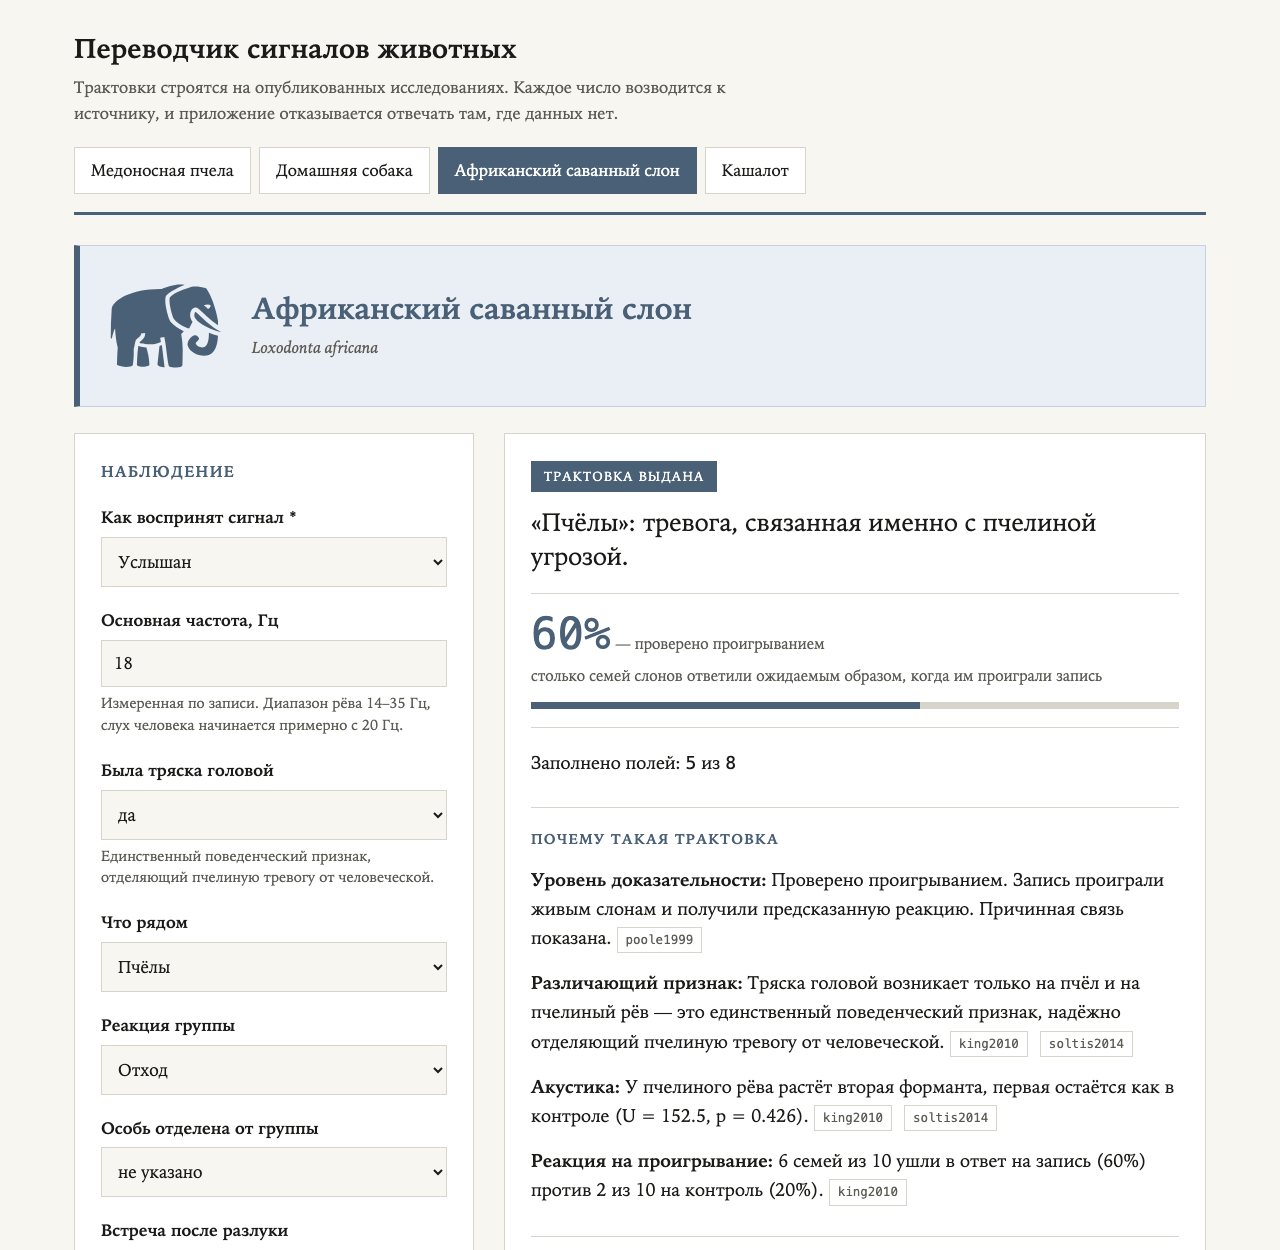
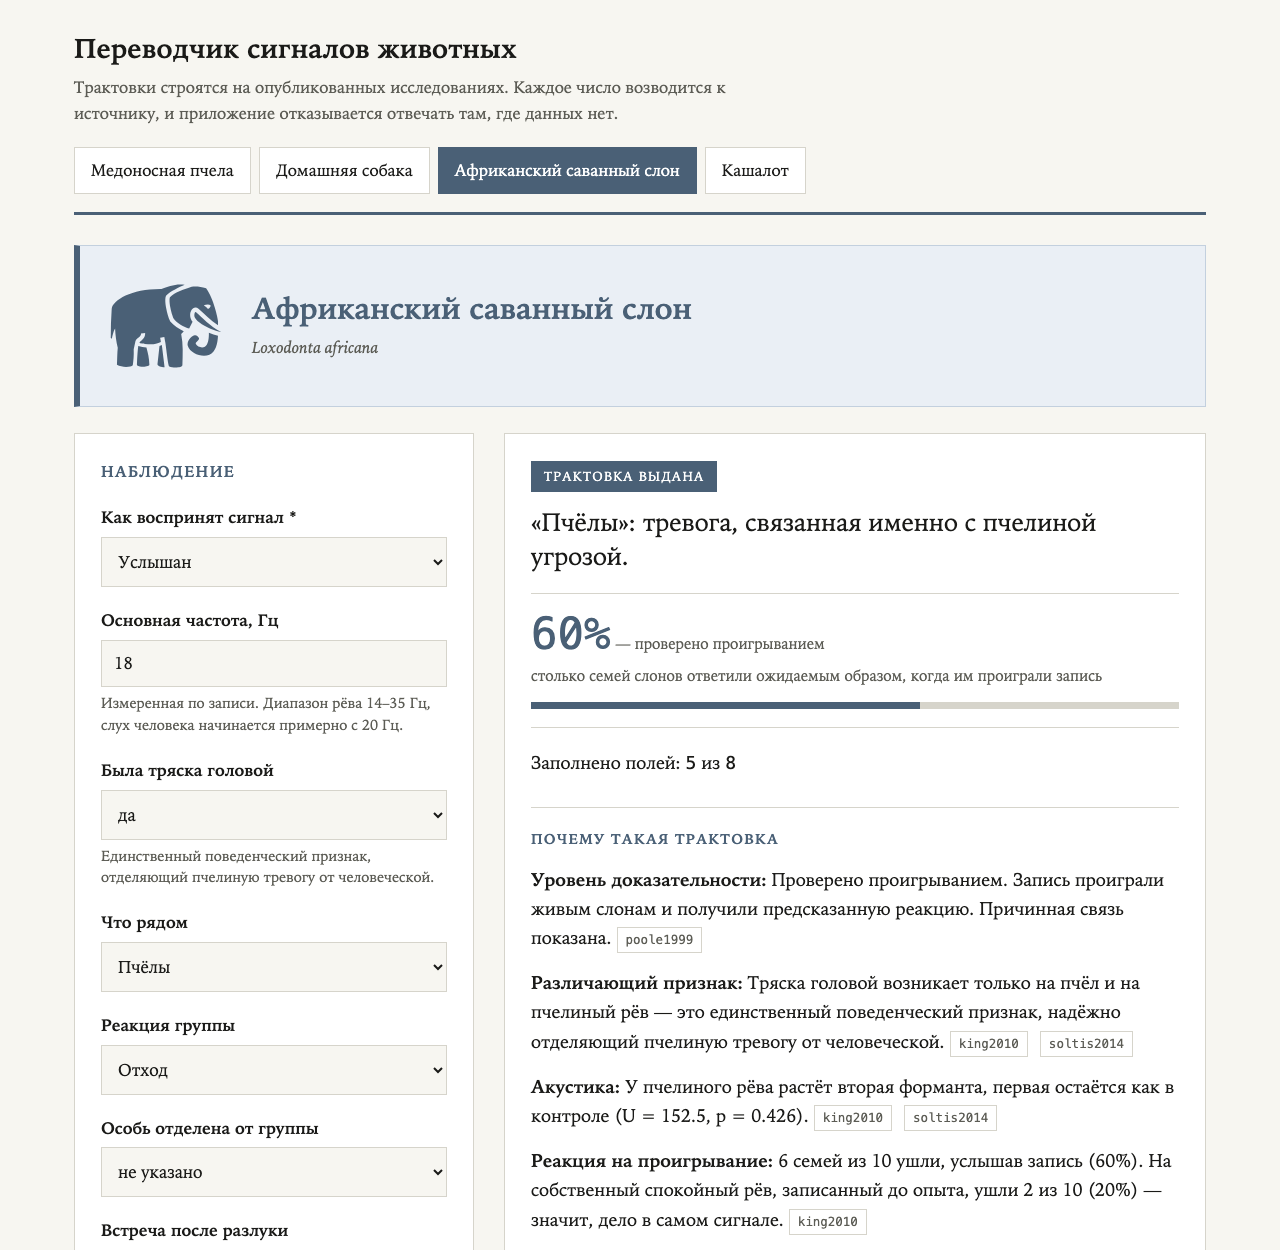
simplify interface wording and explain species terms

Changed region(s): [[0.4062, 0.9048, 0.9062, 0.9984]]

diff --git a/src/animal_translator/app.py b/src/animal_translator/app.py
@@ -10,7 +10,7 @@ from __future__ import annotations
 
 from typing import Annotated, Any
 
-from fastapi import FastAPI, Query, Request
+from fastapi import FastAPI, Path, Query, Request
 from fastapi.responses import HTMLResponse, JSONResponse
 
 from . import api, web
@@ -29,6 +29,9 @@ DESCRIPTION = """
 
 Каждое число возводится к источнику, а там, где данных нет, приложение
 отказывается отвечать и объясняет, какого рода это незнание.
+
+Вид обозначается коротким именем в адресе — `honeybee`, `dog`, `elephant`,
+`spermwhale`. Полный список отдаёт `GET /api/species`.
 
 Схема наблюдения своя у каждого вида: она приходит в `GET /api/species/{slug}`
 полем `input_schema`, и поля запроса берутся оттуда.
@@ -69,14 +72,16 @@ def species_list() -> list[SpeciesSummary]:
 
 
 @app.get("/api/species/{slug}", tags=["Виды"], summary="Схема ввода, источники и мифы")
-def species_detail(slug: str) -> SpeciesDetail:
+def species_detail(
+    slug: Annotated[str, Path(description="Короткое имя вида в адресе, например dog")],
+) -> SpeciesDetail:
     return SpeciesDetail(**api.species_detail(slug))
 
 
 @app.get("/api/translate", tags=["Разбор"], summary="Разбор наблюдения (значения строками)")
 def translate_get(
     request: Request,
-    species: Annotated[str, Query(description="Слаг вида, например dog")],
+    species: Annotated[str, Query(description="Короткое имя вида в адресе: honeybee, dog, elephant или spermwhale. Полный список — в GET /api/species.")],
 ) -> TranslateResponse:
     values = {key: request.query_params.getlist(key)
               for key in request.query_params if key != "species"}

diff --git a/src/animal_translator/schemas.py b/src/animal_translator/schemas.py
@@ -93,7 +93,7 @@ class InputFieldOut(BaseModel):
 
 
 class SpeciesSummary(BaseModel):
-    slug: str
+    slug: str = Field(description="Короткое имя вида в адресе, например dog")
     name_ru: str
     name_en: str | None = None
     scientific_name: str
@@ -103,7 +103,7 @@ class SpeciesSummary(BaseModel):
 
 
 class SpeciesDetail(BaseModel):
-    slug: str
+    slug: str = Field(description="Короткое имя вида в адресе, например dog")
     name_ru: str
     scientific_name: str
     engine: str
@@ -117,7 +117,7 @@ class SpeciesDetail(BaseModel):
 class TranslateRequest(BaseModel):
     """Наблюдение с типизированными значениями."""
 
-    species: str = Field(description="Слаг вида, например dog")
+    species: str = Field(description="Короткое имя вида в адресе: honeybee, dog, elephant или spermwhale. Полный список — в GET /api/species.")
     observation: dict[str, Any] = Field(
         default_factory=dict,
         description="Поля из input_schema вида. Незаполненные просто не передаются.")
@@ -137,7 +137,7 @@ class TranslateRequest(BaseModel):
 
 
 class TranslateResponse(BaseModel):
-    species: str
+    species: str = Field(description="Короткое имя вида в адресе, например dog")
     observation: dict[str, Any] = Field(description="Как приложение поняло ввод")
     fields_filled: int
     fields_total: int

diff --git a/src/animal_translator/species/elephant.py b/src/animal_translator/species/elephant.py
@@ -130,9 +130,10 @@ def translate(observation: dict[str, Any]) -> Result:
             Step(
                 label_ru="Реакция на проигрывание",
                 value_ru=(
-                    f"{playback['retreated']} семей из {playback['of_trials']} ушли в ответ на запись "
-                    f"({rate:.0%}) против {playback['control_retreated']} из "
-                    f"{playback['control_of_trials']} на контроль ({control:.0%})."
+                    f"{playback['retreated']} семей из {playback['of_trials']} ушли, услышав запись "
+                    f"({rate:.0%}). На собственный спокойный рёв, записанный до опыта, ушли "
+                    f"{playback['control_retreated']} из {playback['control_of_trials']} "
+                    f"({control:.0%}) — значит, дело в самом сигнале."
                 ),
                 source_ids=[playback["source_id"]],
             )

diff --git a/scripts/build_db.py b/scripts/build_db.py
@@ -1,8 +1,8 @@
 #!/usr/bin/env python3
 """Сборка запрашиваемой базы SQLite из data/knowledge.
 
-JSON остаётся источником правды: он читается глазами и виден в диффах. База —
-производная форма, удобная для запросов поперёк видов.
+JSON остаётся первоисточником: он читается глазами и виден в диффах. База —
+производная форма, удобная для запросов сразу по всем видам.
 
     python3 scripts/build_db.py            собрать data/knowledge.db
     python3 scripts/build_db.py --demo     собрать и выполнить примеры запросов

diff --git a/README.md b/README.md
@@ -92,6 +92,9 @@ python3 -m unittest discover -s tests
 | `GET /api/translate?species=…&<поля>` | Разбор, значения строками |
 | `POST /api/translate` | То же, значения своих типов |
 
+`{slug}` — короткое имя вида в адресе: `honeybee`, `dog`, `elephant`,
+`spermwhale`. Оно же служит именем файла в `data/knowledge` и ключом в базе.
+
 Схема наблюдения приходит в `GET /api/species/{slug}` полем `input_schema`, и поля
 запроса берутся оттуда: у каждого вида они свои.
 
@@ -144,8 +147,9 @@ curl -X POST http://127.0.0.1:8000/api/translate \
 
 ## Запросы к базе
 
-Источник правды — JSON в `data/knowledge`. Для запросов поперёк видов из него
-собирается SQLite: файл базы не хранится в репозитории, его создаёт скрипт.
+Первоисточник — JSON-файлы в `data/knowledge`. Из них собирается база SQLite,
+чтобы можно было запрашивать все виды сразу. В репозитории база не хранится:
+её создаёт скрипт.
 
 ```bash
 python3 scripts/build_db.py          # собрать data/knowledge.db
@@ -281,9 +285,10 @@ SELECT t.label_ru AS истинный, p.label_ru AS принят_за, f.share
 
 ![Собака с контекстом](docs/screenshots/05-dog-context.png)
 
-Слон. Тряска головой отличает тревогу на пчёл от тревоги на людей. Значение
-проверено экспериментом: запись проигрывали диким слонам, и 6 семей из 10 ушли
-против 2 из 10 на контрольную запись.
+Слон. Тревогу на пчёл отличает от тревоги на людей один признак — тряска головой.
+Что рёв действительно означает тревогу, проверили опытом: диким слонам проиграли
+рёв, записанный при встрече с пчёлами, и шесть семей из десяти ушли. На
+собственный спокойный рёв, записанный до опыта, уходили только две.
 
 ![Тревожный рёв слона](docs/screenshots/06-elephant.png)
 
@@ -601,7 +606,7 @@ python3 -m unittest discover -s tests
   <br>Описание социальных контекстов низкочастотных криков и диапазон основной частоты 14–35 Гц. Связь установлена по совместной встречаемости, без проигрывания записей
 - **King L.E., Soltis J., Douglas-Hamilton I., Savage A., Vollrath F.** (2010). Bee threat elicits alarm call in African elephants. *PLoS ONE 5: e10346*. [doi.org/10.1371/journal.pone.0010346](https://doi.org/10.1371/journal.pone.0010346)
   <br>Доказательность: сильная · PLoS ONE, полный текст открыт
-  <br>На звук пчёл семьи уходили в 14 случаях из 15 (93%) против 6 из 13 (46%) на белый шум, средняя дистанция ухода 71.67 м против 32.3 м. Проигрывание самого пчелиного рёва вызвало уход у 6 семей из 10 против 2 из 10 на контрольный рёв. Тряска головой усиливалась значимо (p = 0.002)
+  <br>На звук пчёл семьи уходили в 14 случаях из 15 (93%) против 6 из 13 (46%) на белый шум, средняя дистанция ухода 71.67 м против 32.3 м. Проигрывание самого пчелиного рёва вызвало уход у 6 семей из 10; на собственный спокойный рёв тех же слонов, записанный до опыта, ушли 2 из 10. Тряска головой усиливалась значимо (p = 0.002)
 - **Soltis J., King L.E., Douglas-Hamilton I., Vollrath F., Savage A.** (2014). African elephant alarm calls distinguish between threats from humans and bees. *PLoS ONE 9: e89403*. [doi.org/10.1371/journal.pone.0089403](https://doi.org/10.1371/journal.pone.0089403)
   <br>Доказательность: сильная · PLoS ONE, полный текст открыт
   <br>Два типа тревоги различаются и акустически, и поведенчески. У пчелиного рёва растёт вторая форманта; у человеческого — первая и вторая (F1 значимо только для людей: U = 84.5, p = 0.004; для пчёл U = 152.5, p = 0.426). Тряска головой возникала только в ответ на пчёл и на пчелиный рёв
